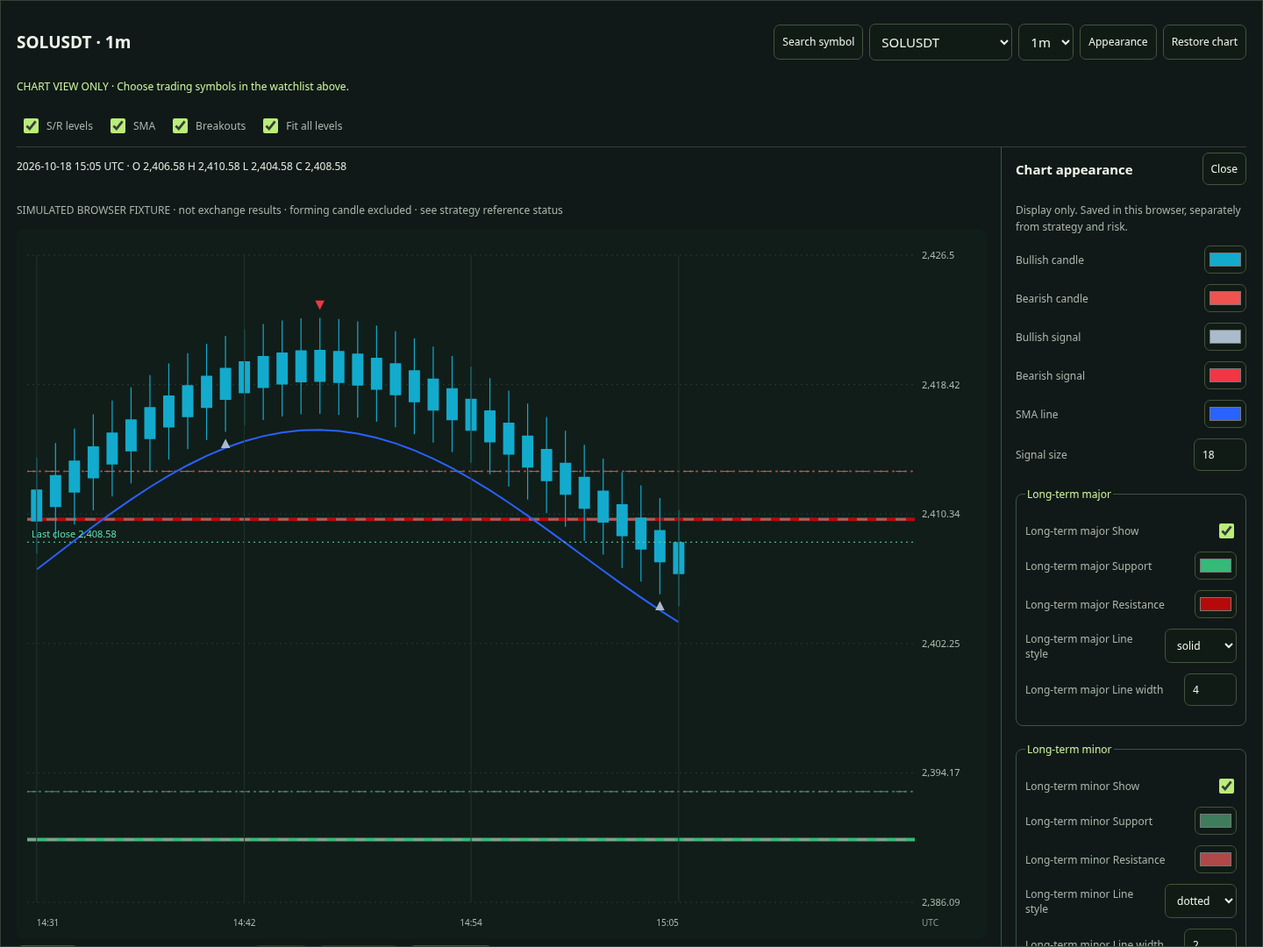
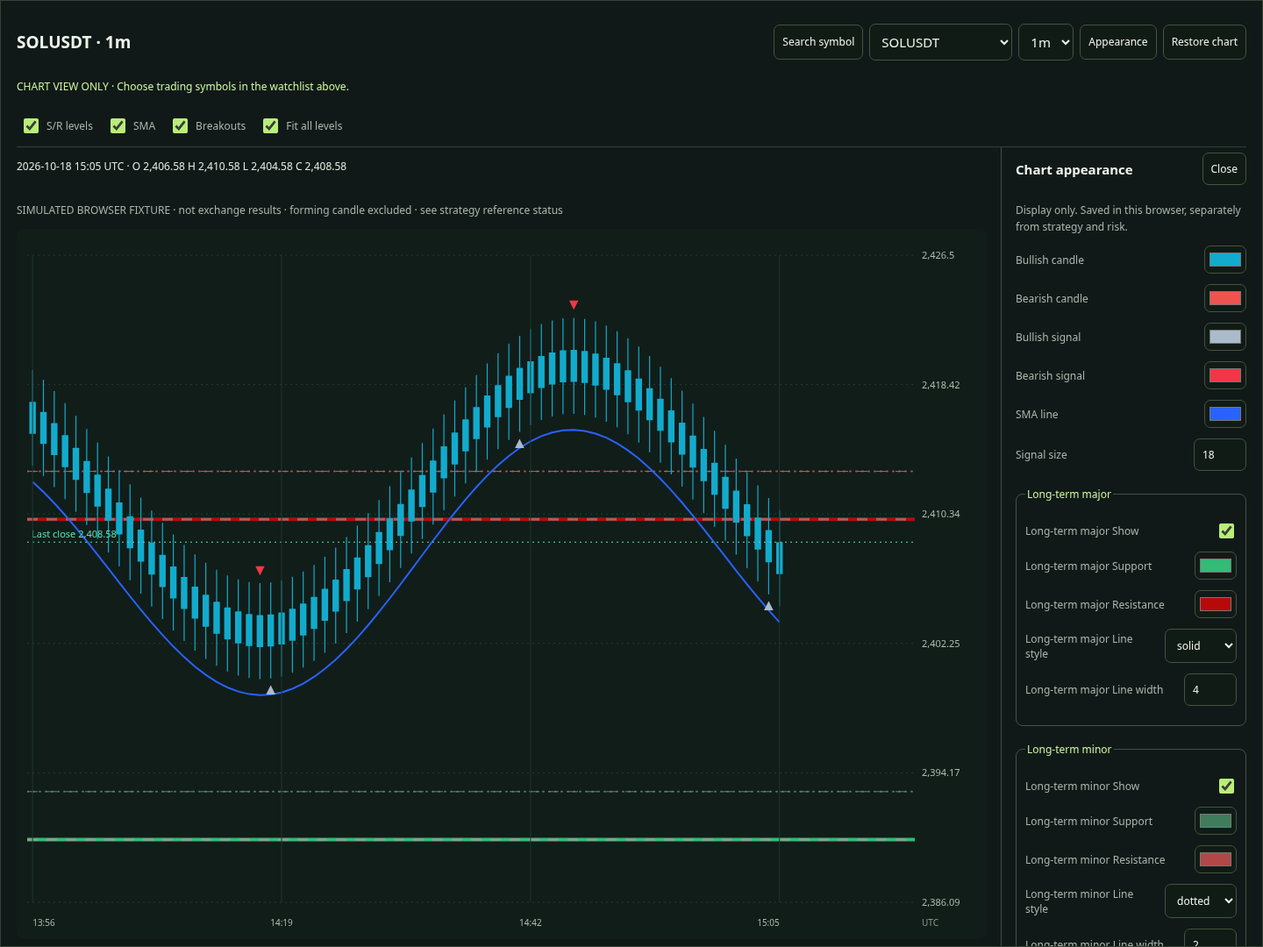
Sync single-symbol saves with chart and add wheel zoom and price dragging

Changed region(s): [[0.0, 0.3361, 0.625, 0.7333]]

diff --git a/web/index.html b/web/index.html
@@ -1,3 +1,3 @@
 <!doctype html><html lang="en"><head><meta charset="utf-8"><meta name="viewport" content="width=device-width,initial-scale=1"><meta name="theme-color" content="#101918"><link rel="manifest" href="/manifest.webmanifest"><title>THOTH · Trading desk</title><style>
 *{box-sizing:border-box}[hidden]{display:none!important}body{margin:0;background:#101918;color:#edf3e8;font:15px system-ui}header,main{max-width:1150px;margin:auto;padding:24px}header{display:flex;justify-content:space-between;border-bottom:1px solid #354036}.brand{font-size:25px;letter-spacing:5px;font-weight:bold}small,p,label{color:#a8b5aa}h1{font-size:34px;font-weight:500}h2{font-size:19px}.badge,.green{color:#b9ee79}.badge{border:1px solid #536b43;padding:7px 12px;border-radius:20px;font-size:12px}.stats{display:grid;grid-template-columns:repeat(3,1fr);gap:14px}.card{padding:20px;background:#1a2521;border:1px solid #354036;border-radius:12px;margin-bottom:18px}.value{font-size:29px;margin-top:10px}.grid{display:grid;grid-template-columns:2fr 1fr;gap:20px;margin-top:6px}button,select,input{background:#111b16;color:#edf3e8;border:1px solid #45533e;border-radius:7px;padding:9px;font:inherit}button{cursor:pointer}.primary{background:#b9ee79;color:#13200f}label{display:flex;justify-content:space-between;align-items:center;margin:17px 0;font-size:13px}input[type=number]{width:88px}.row{display:flex;justify-content:space-between;gap:12px;align-items:center}svg{width:100%;height:290px}.legend{font-size:12px;line-height:1.8}table{width:100%;border-collapse:collapse;font-size:13px}td,th{padding:15px 3px;text-align:left;border-bottom:1px solid #354036}th{color:#a8b5aa;font-weight:400}.red{color:#fc9e91}.note{font-size:12px;line-height:1.6}.chips{display:flex;gap:12px;flex-wrap:wrap}.chips label{margin:8px 0;gap:6px}footer{font-size:12px;color:#a8b5aa;padding:20px 0}@media(max-width:750px){.grid{grid-template-columns:1fr}main,header{padding:16px}.stats{gap:8px}.stats .card{padding:12px}.value{font-size:23px}h1{font-size:29px}.row{flex-wrap:wrap}}
-</style><style>#coins{max-height:270px;overflow:auto}#events{padding-left:18px;font-size:12px;color:#a8b5aa;line-height:1.8}#price{width:110px}select{max-width:180px}input[type=search]{width:100%}dialog{max-width:min(480px,90vw);background:#1a2521;color:#edf3e8;border:1px solid #45533e;border-radius:12px}dialog input{max-width:100%}button:disabled{opacity:.5;cursor:not-allowed}fieldset:disabled{opacity:.65}.banner{border:1px solid #90753a;color:#ebce82;padding:12px;border-radius:8px;font-size:13px}</style><link rel="stylesheet" href="/desk.css"></head><body><header><div class="brand">THOTH<span class="green">.</span></div><div><span class="badge" id="fundsBadge">PAPER FUNDS</span> <button id="logout">Sign out</button></div></header><main><div class="banner">Paper, testnet and gated live modes · Live requires account checks and explicit activation. A server opt-in can skip verification; unverified trading can lose real funds. Experimental S/R port: TradingView comparison still pending.</div><div class="row"><h1>Your trading desk</h1><label>Funds view <select id="viewMode"><option value="paper">Paper simulation</option><option value="testnet">Bybit testnet</option><option value="live">LIVE · Real funds</option></select></label><div><button id="start" class="primary">Start paper mode</button> <button id="pause">Pause entries</button></div></div><p class="note"><span id="liveAccountState">Production execution: inactive</span> · Testnet and live use separate credentials</p><p id="readinessMessage" class="note" role="status">Readiness: checking…</p><button id="checkReadiness">Check readiness</button><p id="runnerHealth" class="note">Market worker: connecting</p><p id="status" role="status">Connecting to server…</p><section class="trade-summary" aria-label="Saved trading watchlist"><strong id="savedSymbols">Trading symbols: loading…</strong><p id="chartScope" class="note"></p><button id="editSymbols">Edit trading symbols ↓</button></section><div class="stats"><div class="card"><small id="equityLabel">Paper equity</small><div class="value" id="equity">—</div></div><div class="card"><small id="pnlLabel">Open paper P&L</small><div id="pnl" class="value green">—</div></div><div class="card"><small>Daily loss limit</small><div class="value"><span id="limit">—</span>%</div></div></div><div class="grid"><div><section class="card" id="symbolPanel"><div class="row"><div><small>TRADING WATCHLIST</small><h2>Symbols allowed to trade</h2></div><span id="selection" role="status"></span></div><p class="note">Click a symbol name to open its chart; use its checkbox to allow trading. Only saved selections can trigger orders. Settings are separate for each funds view.</p><input id="search" type="search" placeholder="Search symbols, e.g. ETH or SOL" aria-label="Search trading symbols"><div class="symbol-tools"><button id="selectVisible">Select search results</button><button id="clearSymbols">Clear all</button><button id="onlyChart">Use chart symbol only</button><label><input id="selectedOnly" type="checkbox"> Show selected only</label></div><p id="watchlistLock" class="note"></p><div id="selectedSymbols" class="selected-symbols" aria-label="Draft trading symbols"></div><div class="chips" id="coins"></div><p id="symbolSaveMessage" role="status" class="note"></p><button id="saveSymbols" class="primary">Save strategy &amp; trading symbols</button><p class="note">This saves the whole strategy form, including risk edits. Exchange availability and minimum order sizes are checked before entry.</p></section><section class="card" id="chartCard" role="region" aria-labelledby="title"><div class="row chart-heading"><h2 id="title">Market chart</h2><div><button id="chartSearch" type="button" aria-haspopup="dialog">Search symbol</button><select id="symbol" aria-label="Chart symbol (view only)"></select> <select id="tf" aria-label="Chart timeframe"><option value="1">1m</option><option value="D">1D</option></select><button id="appearanceToggle" type="button" aria-expanded="false" aria-controls="chartAppearance">Appearance</button><button id="maximizeChart" type="button" aria-expanded="false">Maximize chart</button></div></div><p class="chart-scope note">CHART VIEW ONLY · Choose trading symbols in the watchlist above.</p><div class="chart-layers"><label><input id="showLevels" type="checkbox" checked> S/R levels</label><label><input id="showSma" type="checkbox" checked> SMA</label><label><input id="showSignals" type="checkbox" checked> Breakouts</label><label><input id="fitLevels" type="checkbox"> Fit all levels</label></div><div class="chart-workspace"><div class="chart-canvas"><p id="candleInfo" class="note">Hover or tap a candle to inspect OHLC prices.</p><p id="chartStatus" class="note" role="status"></p><svg id="chart" viewBox="0 0 640 290" role="img" aria-label="Bybit candles and SMA"></svg><div class="chart-nav"><button id="older">← Earlier</button><label>Zoom <input id="zoom" type="range" min="20" max="500" value="70" aria-label="Visible candles"></label><button id="newer">Later →</button><button id="latest">Latest candle</button><button id="refresh">Refresh chart</button><label>Auto refresh<input id="autoChart" type="checkbox" checked></label></div><p class="note">Drag left/right to explore candles. Green support / red resistance · Solid long major / dotted long minor · Dashed short-term levels · ▲/▼: confirmed breakouts. Lines show active levels at the viewed rightmost candle, anchored back to their pivots after confirmation. Display settings do not change trading filters.</p></div><aside id="chartAppearance" class="appearance-panel" hidden><div class="row"><h3>Chart appearance</h3><button id="closeAppearance" type="button" aria-label="Close appearance panel">Close</button></div><p class="note">Display only. Saved in this browser, separately from strategy and risk.</p><div id="appearanceFields"></div><button id="resetAppearance" type="button">Restore screenshot styles</button><p id="appearanceStatus" class="note" role="status"></p></aside></div></section><section class="card"><div class="row"><h2><span id="positionsTitle">Paper positions</span> <small id="count"></small></h2><button class="red" id="close">Close all paper positions</button></div><p id="lossProgress" class="note"></p><div style="overflow:auto"><table><thead><tr><th>Symbol</th><th>Side</th><th>Value / leverage</th><th>P&L</th></tr></thead><tbody id="positions"></tbody></table></div><p id="positionNote" class="note"></p></section><section class="card"><h2>Account connection</h2><p id="accountStatus" class="note" role="status">Loading testnet configuration status…</p><p id="accountBalance" class="note" role="status"></p><button id="verifyAccount">Check connection / refresh balance</button><p class="note">Read-only verification. Credentials must be installed privately on your server. No API secrets are entered or displayed here. This check cannot enable trading.</p></section><section class="card" id="paperPanel"><h2>Manual paper test</h2><p class="note">Uses the chart symbol. This bypasses indicator logic to test positions and risk controls. Enter a simulated execution/mark price.</p><form id="paperOrder"><select id="side" aria-label="Paper direction"><option>Long</option><option>Short</option></select> <input id="price" type="number" min="0.00000001" step="any" placeholder="Price" aria-label="Paper price" required> <button>Paper entry / reversal</button> <button type="button" id="mark">Update mark</button></form></section><section class="card"><h2>Activity</h2><ul id="events"></ul></section></div><aside class="card"><h2 id="settingsTitle">Paper strategy & risk</h2><form id="settings"><fieldset id="settingsGroup" style="border:0;padding:0;margin:0;min-width:0"><label>Strategy timeframe<select id="strategyTf"><option value="1">1 minute</option><option value="D">Daily</option></select></label><div id="fields"></div><label>Overall stop margin basis<select id="portfolioBasis"><option value="losing_margin">Losing positions only</option><option value="all_margin">All open positions</option></select></label><div id="testnetControls" hidden><label>Margin mode<select id="marginMode"><option value="isolated">Isolated</option><option value="cross">Cross</option></select></label><label>Dedicated USDT-only account<input type="checkbox" id="dedicated"></label><p id="testnetModeNote" class="note"></p><button type="button" id="baseline">Set new day baseline (flat only)</button><ul id="execution" class="note"></ul></div><button class="primary">Save settings</button></fieldset><p id="message" role="status" class="note"></p></form><p class="note">Settings are saved separately for paper, testnet and live. First observation warms up; only later confirmed breakouts can enter. Pause exchange entries before changing settings. Existing positions keep their original dollar stop. The source port still needs TradingView comparison.</p><p class="note">Daily limit closes every managed position, including winners. Testnet restarts require manually enabling entries; a missed midnight baseline requires a flat-account review. A loss-streak pause blocks entries while stops remain managed.</p><p class="note">The optional overall stop counts losing P&L only; winning gains never offset it. Choose whether its denominator uses losing positions’ initial margin or all open positions’ initial margin. It closes every managed position and requires manual restart.</p></aside></div><footer>THOTH · Chart overlays control display only; strategy filters are saved separately.</footer><dialog id="testnetDialog"><h2 id="activationHeading">Enable Bybit TESTNET orders</h2><p id="activationDescription">This uses testnet funds, not production funds.</p><p id="activationSymbols" class="note"></p><p>Type <strong id="activationPhraseLabel">ENABLE TESTNET ORDERS</strong> to continue.</p><input id="testnetPhrase" autocomplete="off" aria-label="Testnet activation confirmation"><p id="activationError" role="status"></p><button id="activateTestnet" class="primary">Check account and enable</button> <button id="cancelActivation">Cancel</button></dialog><dialog id="chartSearchDialog"><h2>Find a chart symbol</h2><p class="note">Opens a chart only. Trading selection remains unchanged.</p><input id="chartSearchInput" type="search" placeholder="Search ETH, SOL…" aria-label="Search chart symbols"><p id="chartSearchCount" class="note"></p><div id="chartSearchResults" role="group" aria-label="Chart search results"></div><button id="closeChartSearch" type="button">Close</button></dialog><script src="/app.js" defer></script><script src="/chart-ui.js" defer></script><script src="/chart.js" defer></script></main></body></html>
+</style><style>#coins{max-height:270px;overflow:auto}#events{padding-left:18px;font-size:12px;color:#a8b5aa;line-height:1.8}#price{width:110px}select{max-width:180px}input[type=search]{width:100%}dialog{max-width:min(480px,90vw);background:#1a2521;color:#edf3e8;border:1px solid #45533e;border-radius:12px}dialog input{max-width:100%}button:disabled{opacity:.5;cursor:not-allowed}fieldset:disabled{opacity:.65}.banner{border:1px solid #90753a;color:#ebce82;padding:12px;border-radius:8px;font-size:13px}</style><link rel="stylesheet" href="/desk.css"></head><body><header><div class="brand">THOTH<span class="green">.</span></div><div><span class="badge" id="fundsBadge">PAPER FUNDS</span> <button id="logout">Sign out</button></div></header><main><div class="banner">Paper, testnet and gated live modes · Live requires account checks and explicit activation. A server opt-in can skip verification; unverified trading can lose real funds. Experimental S/R port: TradingView comparison still pending.</div><div class="row"><h1>Your trading desk</h1><label>Funds view <select id="viewMode"><option value="paper">Paper simulation</option><option value="testnet">Bybit testnet</option><option value="live">LIVE · Real funds</option></select></label><div><button id="start" class="primary">Start paper mode</button> <button id="pause">Pause entries</button></div></div><p class="note"><span id="liveAccountState">Production execution: inactive</span> · Testnet and live use separate credentials</p><p id="readinessMessage" class="note" role="status">Readiness: checking…</p><button id="checkReadiness">Check readiness</button><p id="runnerHealth" class="note">Market worker: connecting</p><p id="status" role="status">Connecting to server…</p><section class="trade-summary" aria-label="Saved trading watchlist"><strong id="savedSymbols">Trading symbols: loading…</strong><p id="chartScope" class="note"></p><button id="editSymbols">Edit trading symbols ↓</button></section><div class="stats"><div class="card"><small id="equityLabel">Paper equity</small><div class="value" id="equity">—</div></div><div class="card"><small id="pnlLabel">Open paper P&L</small><div id="pnl" class="value green">—</div></div><div class="card"><small>Daily loss limit</small><div class="value"><span id="limit">—</span>%</div></div></div><div class="grid"><div><section class="card" id="symbolPanel"><div class="row"><div><small>TRADING WATCHLIST</small><h2>Symbols allowed to trade</h2></div><span id="selection" role="status"></span></div><p class="note">Click a symbol name to open its chart; use its checkbox to allow trading. Only saved selections can trigger orders. Settings are separate for each funds view.</p><input id="search" type="search" placeholder="Search symbols, e.g. ETH or SOL" aria-label="Search trading symbols"><div class="symbol-tools"><button id="selectVisible">Select search results</button><button id="clearSymbols">Clear all</button><button id="onlyChart">Use chart symbol only</button><label><input id="selectedOnly" type="checkbox"> Show selected only</label></div><p id="watchlistLock" class="note"></p><div id="selectedSymbols" class="selected-symbols" aria-label="Draft trading symbols"></div><div class="chips" id="coins"></div><p id="symbolSaveMessage" role="status" class="note"></p><button id="saveSymbols" class="primary">Save strategy &amp; trading symbols</button><p class="note">This saves the whole strategy form, including risk edits. Exchange availability and minimum order sizes are checked before entry.</p></section><section class="card" id="chartCard" role="region" aria-labelledby="title"><div class="row chart-heading"><h2 id="title">Market chart</h2><div><button id="chartSearch" type="button" aria-haspopup="dialog">Search symbol</button><select id="symbol" aria-label="Chart symbol (view only)"></select> <select id="tf" aria-label="Chart timeframe"><option value="1">1m</option><option value="D">1D</option></select><button id="appearanceToggle" type="button" aria-expanded="false" aria-controls="chartAppearance">Appearance</button><button id="maximizeChart" type="button" aria-expanded="false">Maximize chart</button></div></div><p class="chart-scope note">CHART VIEW ONLY · Choose trading symbols in the watchlist above.</p><div class="chart-layers"><label><input id="showLevels" type="checkbox" checked> S/R levels</label><label><input id="showSma" type="checkbox" checked> SMA</label><label><input id="showSignals" type="checkbox" checked> Breakouts</label><label><input id="fitLevels" type="checkbox"> Fit all levels</label></div><div class="chart-workspace"><div class="chart-canvas"><p id="candleInfo" class="note">Hover or tap a candle to inspect OHLC prices.</p><p id="chartStatus" class="note" role="status"></p><svg id="chart" viewBox="0 0 640 290" role="img" aria-label="Bybit candles and SMA"></svg><p id="chartNavigationStatus" class="note" role="status"></p><div class="chart-nav"><button id="older">← Earlier</button><label>Zoom <input id="zoom" type="range" min="20" max="500" value="70" aria-label="Visible candles"></label><button id="newer">Later →</button><button id="latest">Latest candle</button><button id="resetChartView">Reset view</button><button id="refresh">Refresh chart</button><label>Auto refresh<input id="autoChart" type="checkbox" checked></label></div><p class="note">Drag with the mouse to move time and price; scroll the wheel over candles to zoom. Reset view restores the chart. Green support / red resistance · Solid long major / dotted long minor · Dashed short-term levels · ▲/▼: confirmed breakouts. Lines show active levels at the viewed rightmost candle, anchored back to their pivots after confirmation. Display settings do not change trading filters.</p></div><aside id="chartAppearance" class="appearance-panel" hidden><div class="row"><h3>Chart appearance</h3><button id="closeAppearance" type="button" aria-label="Close appearance panel">Close</button></div><p class="note">Display only. Saved in this browser, separately from strategy and risk.</p><div id="appearanceFields"></div><button id="resetAppearance" type="button">Restore screenshot styles</button><p id="appearanceStatus" class="note" role="status"></p></aside></div></section><section class="card"><div class="row"><h2><span id="positionsTitle">Paper positions</span> <small id="count"></small></h2><button class="red" id="close">Close all paper positions</button></div><p id="lossProgress" class="note"></p><div style="overflow:auto"><table><thead><tr><th>Symbol</th><th>Side</th><th>Value / leverage</th><th>P&L</th></tr></thead><tbody id="positions"></tbody></table></div><p id="positionNote" class="note"></p></section><section class="card"><h2>Account connection</h2><p id="accountStatus" class="note" role="status">Loading testnet configuration status…</p><p id="accountBalance" class="note" role="status"></p><button id="verifyAccount">Check connection / refresh balance</button><p class="note">Read-only verification. Credentials must be installed privately on your server. No API secrets are entered or displayed here. This check cannot enable trading.</p></section><section class="card" id="paperPanel"><h2>Manual paper test</h2><p class="note">Uses the chart symbol. This bypasses indicator logic to test positions and risk controls. Enter a simulated execution/mark price.</p><form id="paperOrder"><select id="side" aria-label="Paper direction"><option>Long</option><option>Short</option></select> <input id="price" type="number" min="0.00000001" step="any" placeholder="Price" aria-label="Paper price" required> <button>Paper entry / reversal</button> <button type="button" id="mark">Update mark</button></form></section><section class="card"><h2>Activity</h2><ul id="events"></ul></section></div><aside class="card"><h2 id="settingsTitle">Paper strategy & risk</h2><form id="settings"><fieldset id="settingsGroup" style="border:0;padding:0;margin:0;min-width:0"><label>Strategy timeframe<select id="strategyTf"><option value="1">1 minute</option><option value="D">Daily</option></select></label><div id="fields"></div><label>Overall stop margin basis<select id="portfolioBasis"><option value="losing_margin">Losing positions only</option><option value="all_margin">All open positions</option></select></label><div id="testnetControls" hidden><label>Margin mode<select id="marginMode"><option value="isolated">Isolated</option><option value="cross">Cross</option></select></label><label>Dedicated USDT-only account<input type="checkbox" id="dedicated"></label><p id="testnetModeNote" class="note"></p><button type="button" id="baseline">Set new day baseline (flat only)</button><ul id="execution" class="note"></ul></div><button class="primary">Save settings</button></fieldset><p id="message" role="status" class="note"></p></form><p class="note">Settings are saved separately for paper, testnet and live. First observation warms up; only later confirmed breakouts can enter. Pause exchange entries before changing settings. Existing positions keep their original dollar stop. The source port still needs TradingView comparison.</p><p class="note">Daily limit closes every managed position, including winners. Testnet restarts require manually enabling entries; a missed midnight baseline requires a flat-account review. A loss-streak pause blocks entries while stops remain managed.</p><p class="note">The optional overall stop counts losing P&L only; winning gains never offset it. Choose whether its denominator uses losing positions’ initial margin or all open positions’ initial margin. It closes every managed position and requires manual restart.</p></aside></div><footer>THOTH · Chart overlays control display only; strategy filters are saved separately.</footer><dialog id="testnetDialog"><h2 id="activationHeading">Enable Bybit TESTNET orders</h2><p id="activationDescription">This uses testnet funds, not production funds.</p><p id="activationSymbols" class="note"></p><p>Type <strong id="activationPhraseLabel">ENABLE TESTNET ORDERS</strong> to continue.</p><input id="testnetPhrase" autocomplete="off" aria-label="Testnet activation confirmation"><p id="activationError" role="status"></p><button id="activateTestnet" class="primary">Check account and enable</button> <button id="cancelActivation">Cancel</button></dialog><dialog id="chartSearchDialog"><h2>Find a chart symbol</h2><p class="note">Opens a chart only. Trading selection remains unchanged.</p><input id="chartSearchInput" type="search" placeholder="Search ETH, SOL…" aria-label="Search chart symbols"><p id="chartSearchCount" class="note"></p><div id="chartSearchResults" role="group" aria-label="Chart search results"></div><button id="closeChartSearch" type="button">Close</button></dialog><script src="/app.js" defer></script><script src="/chart-ui.js" defer></script><script src="/chart.js" defer></script></main></body></html>

diff --git a/web/chart.js b/web/chart.js
@@ -7,8 +7,9 @@ function draw(){
  const ns='http://www.w3.org/2000/svg';
  function shape(tag,attrs,parent=svg){const node=document.createElementNS(ns,tag);for(const [k,v]of Object.entries(attrs))node.setAttribute(k,v);parent.append(node);return node}
  const end=chartRows.length-chartOffset,rows=chartRows.slice(Math.max(0,end-visibleBars),end);
+ $('chartNavigationStatus').textContent=chartOffset>0||chartPriceShift!==0?'Exploring chart · auto refresh paused. Latest candle returns to the live edge and auto scale.':'Mouse wheel: zoom · Hold left mouse button and drag: move time and price · Reset view: restore scale';
  $('title').textContent=$('symbol').value+' · '+$('tf').selectedOptions[0].textContent;
- $('older').disabled=chartOffset>=Math.max(0,chartRows.length-visibleBars);$('newer').disabled=chartOffset===0;$('latest').disabled=chartOffset===0;
+ $('older').disabled=chartOffset>=Math.max(0,chartRows.length-visibleBars);$('newer').disabled=chartOffset===0;$('latest').disabled=chartOffset===0&&chartPriceShift===0;
  if(!rows.length){$('candleInfo').textContent='No candles available for this chart.';return}
  const start=rows[0].time,finish=rows.at(-1).time,step=P/(rows.length+12),x=i=>L+(i+.5)*step;
  const levelSnapshot=analysis.filter(b=>b.time<=finish).at(-1);
@@ -20,7 +21,8 @@ function draw(){
  const stop=p=>Number(p.stop)>0?Number(p.stop):p.entry+(p.side==='Long'?-1:1)*p.stop_dollars/p.qty;
  const values=rows.flatMap(r=>[Number(r.low),Number(r.high)]);
  if($('fitLevels').checked){if(showLevels)for(const [key,level]of Object.entries(levelSnapshot?.levels||{}))if(enabled(key)&&Number.isFinite(level.value))values.push(level.value);if(showSma)for(const r of rows){const v=smaByTime.get(r.time);if(Number.isFinite(v))values.push(v)}for(const p of positions)values.push(p.entry,stop(p))}
- const bottom=Math.min(...values),top=Math.max(...values),pad=Math.max((top-bottom)*.12,Math.abs(top)*.00002,.000001),min=bottom-pad,max=top+pad;
+ const bottom=Math.min(...values),top=Math.max(...values),pad=Math.max((top-bottom)*.12,Math.abs(top)*.00002,.000001),min=bottom-pad+chartPriceShift,max=top+pad+chartPriceShift;
+ chartGeometry={W,L,P,step,firstIndex:Math.max(0,end-visibleBars),pricePerPixel:(max-min)/(B-T)*H/svg.getBoundingClientRect().height};
  const y=p=>B-(Number(p)-min)/(max-min)*(B-T),price=p=>Number(p).toLocaleString('en-US',{maximumFractionDigits:Math.abs(p)<1?6:Math.abs(p)<10?4:2});
  for(let i=0;i<6;i++){const value=min+(max-min)*i/5,yy=y(value);shape('path',{d:`M${L} ${yy} H${R}`,stroke:'#263c32','stroke-dasharray':'2 4'});shape('text',{x:R+8,y:yy+4,fill:'#a9bbb0','font-size':11}).textContent=price(value)}
  const defs=shape('defs',{}),clip=shape('clipPath',{id:'plotClip'},defs);shape('rect',{x:L,y:T-10,width:P,height:B-T+20},clip);
@@ -52,9 +54,9 @@ function draw(){
  function inspect(i,show=true){const r=rows[i];$('candleInfo').textContent=new Date(r.time*1000).toISOString().replace('T',' ').slice(0,16)+' UTC · O '+price(r.open)+'  H '+price(r.high)+'  L '+price(r.low)+'  C '+price(r.close);if(show){cross.setAttribute('d',`M${x(i)} ${T} V${B} M${L} ${y(r.close)} H${R}`);dot.setAttribute('cx',x(i));dot.setAttribute('cy',y(r.close));dot.setAttribute('visibility','visible')}}
  const inspectedIndex=rows.findIndex(r=>r.time===inspectedCandle);inspect(inspectedIndex>=0?inspectedIndex:rows.length-1,false);
  function point(e){const rect=svg.getBoundingClientRect(),px=(e.clientX-rect.left)/rect.width*W;const i=Math.max(0,Math.min(rows.length-1,Math.floor((px-L)/step)));inspectedCandle=rows[i].time;inspect(i)}
- svg.onpointerdown=e=>{if(e.button!==0)return;chartDrag={id:e.pointerId,startX:e.clientX,startY:e.clientY,offset:chartOffset,step:step*svg.getBoundingClientRect().width/W,moved:false};suppressChartClick=false;svg.setPointerCapture(e.pointerId)};
+ svg.onpointerdown=e=>{if(e.button!==0)return;chartDrag={id:e.pointerId,startX:e.clientX,startY:e.clientY,offset:chartOffset,step:step*svg.getBoundingClientRect().width/W,priceShift:chartPriceShift,pricePerPixel:chartGeometry.pricePerPixel,moved:false};suppressChartClick=false;svg.setPointerCapture(e.pointerId)};
  svg.onpointermove=e=>{
-  if(chartDrag&&chartDrag.id===e.pointerId){const dx=e.clientX-chartDrag.startX,dy=e.clientY-chartDrag.startY;if(!chartDrag.moved&&Math.abs(dx)<5)return;if(e.pointerType==='touch'&&!chartDrag.moved&&Math.abs(dy)>Math.abs(dx))return;chartDrag.moved=true;suppressChartClick=true;svg.classList.add('dragging');const next=Math.max(0,Math.min(Math.max(0,chartRows.length-visibleBars),chartDrag.offset+Math.round(dx/chartDrag.step)));if(next!==chartOffset){chartOffset=next;inspectedCandle=null;draw()}return}
+  if(chartDrag&&chartDrag.id===e.pointerId){const dx=e.clientX-chartDrag.startX,dy=e.clientY-chartDrag.startY;if(!chartDrag.moved&&Math.max(Math.abs(dx),Math.abs(dy))<5)return;if(e.pointerType==='touch'&&!chartDrag.moved&&Math.abs(dy)>Math.abs(dx))return;chartDrag.moved=true;suppressChartClick=true;svg.classList.add('dragging');const next=Math.max(0,Math.min(Math.max(0,chartRows.length-visibleBars),chartDrag.offset+Math.round(dx/chartDrag.step)));const shift=e.pointerType==='touch'?chartDrag.priceShift:chartDrag.priceShift+dy*chartDrag.pricePerPixel;if(next!==chartOffset||shift!==chartPriceShift){chartOffset=next;chartPriceShift=shift;inspectedCandle=null;draw()}return}
   if(e.pointerType==='mouse')point(e);
  };
  function endDrag(e){if(chartDrag?.id===e.pointerId){chartDrag=null;svg.classList.remove('dragging');if(svg.hasPointerCapture(e.pointerId))svg.releasePointerCapture(e.pointerId)}}
@@ -65,7 +67,21 @@ function draw(){
 $('zoom').oninput=()=>{visibleBars=Number($('zoom').value);chartOffset=Math.min(chartOffset,Math.max(0,chartRows.length-visibleBars));draw()};
 $('older').onclick=()=>{chartOffset=Math.min(Math.max(0,chartRows.length-visibleBars),chartOffset+Math.max(10,Math.floor(visibleBars/3)));draw()};
 $('newer').onclick=()=>{chartOffset=Math.max(0,chartOffset-Math.max(10,Math.floor(visibleBars/3)));draw()};
-$('latest').onclick=()=>{chartOffset=0;inspectedCandle=null;draw()};
+$('latest').onclick=()=>{chartOffset=0;chartPriceShift=0;inspectedCandle=null;draw()};
+$('resetChartView').onclick=()=>{visibleBars=70;$('zoom').value='70';chartOffset=0;chartPriceShift=0;inspectedCandle=null;draw()};
 $('refresh').onclick=()=>loadChart();
 for(const id of ['showLevels','showSma','showSignals','fitLevels'])$(id).onchange=()=>draw();
 window.addEventListener('resize',()=>{if(chartRows.length)draw()});
+
+// Wheel handling must be non-passive to zoom the plot instead of scrolling
+// the dashboard. Keep the candle under the pointer anchored when bounds allow.
+$('chart').addEventListener('wheel',e=>{
+ if(!chartRows.length||!chartGeometry||!Number.isFinite(e.deltaY)||e.deltaY===0)return;
+ e.preventDefault();
+ const g=chartGeometry,rect=$('chart').getBoundingClientRect(),fraction=Math.max(0,Math.min(1,((e.clientX-rect.left)/rect.width*g.W-g.L)/g.P));
+ const oldCount=Math.min(visibleBars,chartRows.length),anchor=g.firstIndex+fraction*(oldCount+12)-.5;
+ const next=Math.max(20,Math.min(500,Math.round(visibleBars*(e.deltaY<0?.85:1/.85))));
+ const count=Math.min(next,chartRows.length),first=anchor-fraction*(count+12)+.5;
+ visibleBars=next;$('zoom').value=String(next);chartOffset=Math.max(0,Math.min(Math.max(0,chartRows.length-next),Math.round(chartRows.length-count-first)));
+ inspectedCandle=null;draw();
+},{passive:false});

diff --git a/web/app.js b/web/app.js
@@ -104,7 +104,7 @@ function render(){
 function collect(){const cfg={...formDraft,timeframe:$('strategyTf').value,portfolio_loss_basis:$('portfolioBasis').value};for(const id of fieldIds){const input=$(id);cfg[id]=input.type==='checkbox'?input.checked:Number(input.value)}cfg.automatic_paper=mode==='paper'&&$('automatic_paper').checked;
  if(mode!=='paper'){cfg.margin_mode=$('marginMode').value;cfg.dedicated_account=$('dedicated').checked}return cfg}
 $('settings').oninput=()=>{dirty=true};
-async function saveSettings(){try{const cfg=collect();if(mode==='paper')state=await api('settings','PUT',cfg);else updateAccount(await api(mode+'/settings','PUT',cfg));renderSettings();render();message('Settings saved. Existing positions keep their original size and dollar stop.');$('symbolSaveMessage').textContent='Saved trading symbols: '+current().settings.symbols.join(', ');loadChart()}catch(e){message(e.message);$('symbolSaveMessage').textContent=e.message}}
+async function saveSettings(){try{const cfg=collect();if(mode==='paper')state=await api('settings','PUT',cfg);else updateAccount(await api(mode+'/settings','PUT',cfg));if(cfg.symbols.length===1&&watchlist.some(x=>x.selectable&&x.symbol===cfg.symbols[0]))$('symbol').value=cfg.symbols[0];renderSettings();render();message('Settings saved. Existing positions keep their original size and dollar stop.');$('symbolSaveMessage').textContent='Saved trading symbols: '+current().settings.symbols.join(', ');loadChart()}catch(e){message(e.message);$('symbolSaveMessage').textContent=e.message}}
 $('settings').onsubmit=e=>{e.preventDefault();saveSettings()};
 $('saveSymbols').onclick=saveSettings;
 $('viewMode').onchange=()=>{if(dirty&&!confirm('Discard unsaved settings and switch funds view?')){$('viewMode').value=mode;return}mode=$('viewMode').value;renderSettings();render();loadChart();connectionStatus();showReadiness()};
@@ -122,7 +122,7 @@ $('cancelActivation').onclick=()=>$('testnetDialog').close();
 $('baseline').onclick=async()=>{if(!confirm('Use current '+mode.toUpperCase()+' equity as the new UTC day baseline? The account must be flat. A current-day loss lock cannot be reset.'))return;try{updateAccount(await api(mode+'/baseline','POST'));render()}catch(e){message(e.message)}};
 $('paperOrder').onsubmit=async e=>{e.preventDefault();try{state=await api('paper/orders','POST',{symbol:$('symbol').value,side:$('side').value,price:Number($('price').value),signal_id:crypto.randomUUID()});render();message('Manual paper order recorded.')}catch(e){message(e.message)}};
 $('mark').onclick=async()=>{try{const price=Number($('price').value);if(!(price>0))throw Error('Enter a positive paper price');state=await api('paper/marks','POST',{prices:{[$('symbol').value]:price}});render()}catch(e){message(e.message)}};
-async function loadChart(background=false){if(background&&(chartLoading||chartOffset>0))return;chartLoading=true;const request=++chartRequest;$('chartStatus').textContent='Loading '+(mode==='testnet'?'TESTNET':mode==='live'?'LIVE':'Bybit')+' candles…';try{const data=await api('chart/'+$('symbol').value+'?interval='+$('tf').value+'&environment='+mode);if(request!==chartRequest)return;chartRows=data.candles;smaRows=data.sma;analysis=data.analysis||[];chartOffset=0;$('chartStatus').textContent=data.source+' · forming candle excluded · see strategy reference status';draw()}catch(e){if(request!==chartRequest)return;chartRows=[];smaRows=[];analysis=[];draw();$('chartStatus').textContent=e.message}finally{if(request===chartRequest)chartLoading=false}}
+async function loadChart(background=false){if(background&&(chartLoading||chartDrag||chartOffset>0||chartPriceShift!==0))return;chartLoading=true;const request=++chartRequest;$('chartStatus').textContent='Loading '+(mode==='testnet'?'TESTNET':mode==='live'?'LIVE':'Bybit')+' candles…';try{const data=await api('chart/'+$('symbol').value+'?interval='+$('tf').value+'&environment='+mode);if(request!==chartRequest||(background&&(chartDrag||chartOffset>0||chartPriceShift!==0)))return;if(!background)chartPriceShift=0;chartRows=data.candles;smaRows=data.sma;analysis=data.analysis||[];chartOffset=0;$('chartStatus').textContent=data.source+' · forming candle excluded · see strategy reference status';draw()}catch(e){if(request!==chartRequest)return;chartRows=[];smaRows=[];analysis=[];draw();$('chartStatus').textContent=e.message}finally{if(request===chartRequest)chartLoading=false}}
 $('symbol').onchange=()=>{renderWatchlist();loadChart()};$('tf').onchange=()=>loadChart();
 async function connectionStatus(verify=false){try{const environment=mode==='live'?'live':'testnet';const status=await api((verify?'connection/verify':'connection')+'?environment='+environment,verify?'POST':'GET');accountReadings[environment]=status;if((mode==='live'?'live':'testnet')!==environment)return;$('accountBalance').textContent=status.balance?'USDT wallet: '+money(status.balance.wallet_balance)+' · USDT equity: '+money(status.balance.equity)+' · Account unrealized P&L: '+money(status.balance.unrealised_pnl)+' · Snapshot '+new Date(status.balance.checked_at*1000).toLocaleTimeString()+' · '+status.balance_reason:status.balance_reason;render();$('accountStatus').textContent=environment.toUpperCase()+' read access: '+(status.verified?'verified':status.configured?'not verified':'not configured')+' · '+status.reason}catch(e){$('accountStatus').textContent='Connection check unavailable: '+e.message}}
 $('verifyAccount').onclick=()=>connectionStatus(true);

diff --git a/web/chart-ui.js b/web/chart-ui.js
@@ -6,7 +6,7 @@ const chartStyleDefaults={bull:'#26a69a',bear:'#ef5350',longSignal:'#4caf50',sho
  short_minor:{support:'#6e7d75',resistance:'#93716f',style:'dashed',width:1,visible:true}};
 const chartStyleKey='thoth.chart.appearance.v1';
 const copyStyle=()=>JSON.parse(JSON.stringify(chartStyleDefaults));
-let chartStyle=copyStyle(),chartDrag=null,suppressChartClick=false;
+let chartStyle=copyStyle(),chartDrag=null,suppressChartClick=false,chartPriceShift=0,chartGeometry=null;
 try{const stored=JSON.parse(localStorage.getItem(chartStyleKey)||'null');if(stored&&typeof stored==='object'){
  for(const key of ['bull','bear','longSignal','shortSignal','sma'])if(/^#[0-9a-f]{6}$/i.test(stored[key]))chartStyle[key]=stored[key];
  if(Number.isInteger(stored.signalSize)&&stored.signalSize>=10&&stored.signalSize<=32)chartStyle.signalSize=stored.signalSize;

diff --git a/tools/browser_smoke.py b/tools/browser_smoke.py
@@ -53,7 +53,9 @@ with tempfile.TemporaryDirectory(prefix='thoth-ui-') as d:
    # Draft edits cannot trigger activation; no order route is reached.
    page.click('#start');expect(page.locator('#symbolSaveMessage')).to_contain_text('Save your strategy')
    assert not activation
+   page.select_option('#symbol','SOLUSDT')
    page.click('#saveSymbols');expect(page.locator('#savedSymbols')).not_to_contain_text('SOLUSDT')
+   expect(page.locator('#symbol')).to_have_value('ETHUSDT')
    assert writes[-1][1]['symbols']==['ETHUSDT']
    page.select_option('#symbol','SOLUSDT');expect(page.locator('#chartScope')).to_contain_text('not enabled for trading')
    assert writes[-1][1]['symbols']==['ETHUSDT']
@@ -86,6 +88,23 @@ with tempfile.TemporaryDirectory(prefix='thoth-ui-') as d:
    page.mouse.move(sx,sy);page.mouse.down();page.mouse.move(sx-50,sy,steps=6);page.mouse.up()
    assert page.evaluate('() => chartOffset')<offset
    page.click('#latest');expect(page.locator('#latest')).to_be_disabled()
+   # Wheel zoom acts on the chart; vertical mouse dragging moves the price view.
+   page.locator('#chart').scroll_into_view_if_needed()
+   box=page.locator('#chart').bounding_box();sx=box['x']+box['width']*.5;sy=box['y']+box['height']*.5
+   page.mouse.move(sx,sy);before=page.evaluate('() => visibleBars');page.mouse.wheel(0,-200)
+   expect(page.locator('#zoom')).not_to_have_value(str(before))
+   zoomed=page.evaluate('() => visibleBars');assert zoomed<before
+   page.mouse.wheel(0,200)
+   expect(page.locator('#zoom')).not_to_have_value(str(zoomed))
+   if page.locator('#latest').is_enabled():page.click('#latest')
+   page.locator('#chart').scroll_into_view_if_needed()
+   box=page.locator('#chart').bounding_box();sx=box['x']+box['width']*.5;sy=box['y']+box['height']*.5
+   page.mouse.move(sx,sy);page.mouse.down();page.mouse.move(sx,sy+45,steps=6);page.mouse.up()
+   assert page.evaluate('() => chartPriceShift')>0
+   expect(page.locator('#latest')).to_be_enabled()
+   page.click('#resetChartView');expect(page.locator('#zoom')).to_have_value('70')
+   assert page.evaluate('() => chartPriceShift')==0
+   expect(page.locator('#latest')).to_be_disabled()
    rays=page.locator('[data-sr-key]');expect(rays).to_have_count(8)
    major=page.locator('[data-sr-key="long_resistance_major"]')
    expect(major).to_have_attribute('stroke','#b70909');expect(major).to_have_attribute('stroke-width','4')
@@ -140,6 +159,6 @@ with tempfile.TemporaryDirectory(prefix='thoth-ui-') as d:
    assert not errors,errors
    assert not activation,activation
    browser.close()
-  print('PASS: desktop/mobile watchlist, separate saved/draft/chart symbols, saves, active-entry lock, dragging, maximization, chart search, S/R ray styles, appearance persistence/reset, mode separation, no JS errors/overflow, no activation requests')
+  print('PASS: desktop/mobile watchlist, separate saved/draft/chart symbols, saves, active-entry lock, mouse dragging in time/price, wheel zoom/reset, save-to-chart synchronization, maximization, chart search, S/R ray styles, appearance persistence/reset, mode separation, no JS errors/overflow, no activation requests')
  finally:
   server.terminate();server.wait(timeout=15);log.close()

diff --git a/README.md b/README.md
@@ -139,3 +139,7 @@ The **Appearance** side panel changes bullish/bearish candle and signal colors, 
 S/R drawing now uses horizontal rays from the pivot anchors, showing the latest confirmed levels available at the rightmost viewed candle, with room to their right. This matches the original Pine drawing style rather than connecting historical levels with vertical stair steps. Rays are drawn retrospectively back to pivots only for display; this does not backdate signals or certify matching TradingView values. Long-term major defaults to solid width 4, long-term minor dotted width 2, short-term major dashed width 3 and short-term minor dashed width 1. The colors come from the original supplied Pine.
 
 Updated synthetic previews: [desktop chart](docs/desktop-interactive-chart-fixture.png), [mobile chart](docs/mobile-interactive-chart-fixture.png). They demonstrate browser rendering and controls, not actual account results.
+
+### Mouse chart navigation and saving one symbol
+
+Saving a strategy with exactly one allowed trading symbol now opens that symbol's chart after the save succeeds. With multiple symbols, chart selection remains independent. Mouse wheel over the chart zooms around the pointer; holding the left mouse button and dragging moves both time and price. Touch dragging remains horizontal so vertical page scrolling still works on mobile. **Latest candle** clears manual price/time panning; **Reset view** also restores the default candle zoom. Automatic candle refresh pauses during manual time/price exploration and resumes at the live edge. These controls do not change strategy settings or enable orders.
